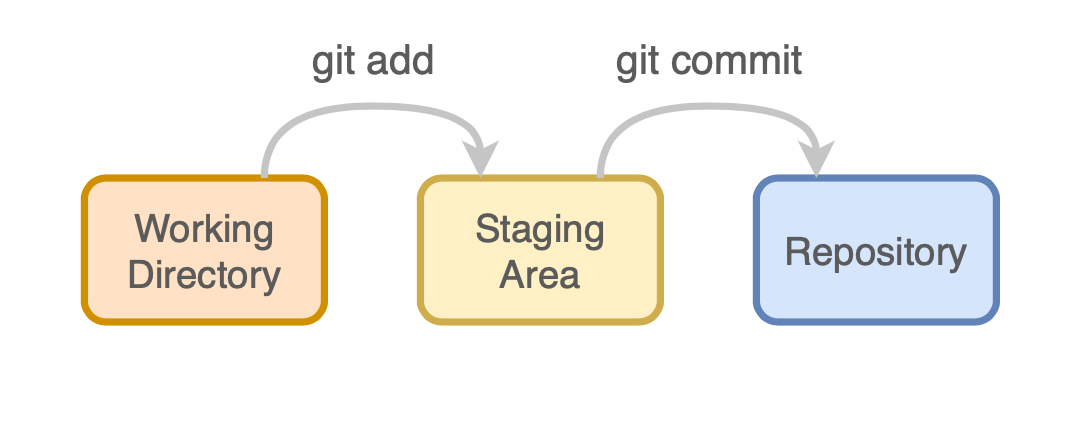
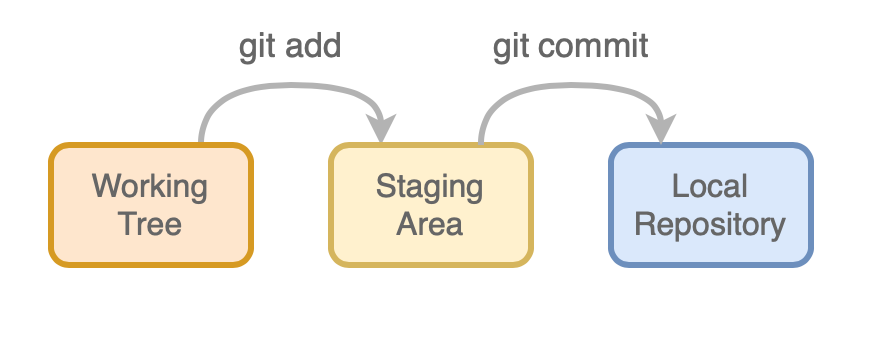
More sections in the instructions

diff --git a/scripts/make_plot.py b/scripts/make_plot.py
@@ -1,0 +1,65 @@
+from pathlib import Path
+
+import pandas as pd
+import plotly
+import plotly.express as px
+
+COLUMNS = ['date', 'country', 'confirmed']
+
+COLUMN_MAP = {
+    'Country/Region': 'country',
+    'Country_Region': 'country',
+    'Confirmed': 'confirmed',
+    'Deaths': 'deaths',
+    'Recovered': 'recovered',
+}
+
+COUNTRY_MAP = {
+    'Mainland China': 'China',
+    'US': 'United States',
+}
+
+DATA_DIR = Path('data')
+
+
+def load_and_normalize(file) -> pd.DataFrame:
+    df = pd \
+        .read_csv(file) \
+        .rename(columns=COLUMN_MAP) \
+        .replace({'country': COUNTRY_MAP}) \
+        .groupby('country', as_index=False) \
+        .sum() \
+        .assign(date=file.name.strip('*.csv')) \
+        .loc[:,COLUMNS]
+    
+    return df
+
+
+data = None
+
+for file in sorted(DATA_DIR.glob('*.csv')):
+    df = load_and_normalize(file)
+    if data is None:
+        data = df
+    else:
+        data = pd.concat([data, df])
+
+
+data.reset_index(drop=True, inplace=True)
+data['days_since_100'] = data[data['confirmed'] > 100].groupby('country').cumcount()
+
+
+top_n = data.groupby('country')['confirmed'].max().sort_values(ascending=False).head(25)
+y_max = max(data['confirmed']) * 1.1
+labels = {
+    'days_since_100': 'Days Since 100 Cases',
+    'confirmed': 'Confirmed Cases',
+    'country': 'Country/Region',
+}
+
+
+fig = px.line(x='days_since_100', y='confirmed', color='country', 
+              data_frame=data.loc[data['country'].isin(top_n.index)], 
+              log_y=True, range_y=[100, y_max], labels=labels)
+
+plotly.offline.plot(fig, filename='figures/covid-19-cases.html')

diff --git a/INSTRUCTIONS.md b/INSTRUCTIONS.md
@@ -1,6 +1,6 @@
-# Using Git for Analysis Projects
+# An Intro to Git
 
-We're going to create a plot of the Covid-19 cases around the world using publically available data compiled by [Johns Hopkins](https://github.com/CSSEGISandData). We'll write a script we can use to update the data, create a visualizations and then try contributing to someone else's code with a merge request.
+We're going to create a plot of the Covid-19 cases around the world using publicly available data compiled by [Johns Hopkins](https://github.com/CSSEGISandData). We'll write a script we can use to update the data, create a visualizations and then try contributing to someone else's code with a merge request.
 
 [![example-plot](images/example-plot.png)](https://www.ft.com/content/ff3affea-63c7-11ea-b3f3-fe4680ea68b5)
 
@@ -94,7 +94,7 @@ You'll see a folder on the left side, and not much else. Go back to your termina
 ```markdown
 # COVID-19 Confirmed Cases Visualization
 
-This project recreates the COVID-19 growth trajectory plots using publically available data
+This project recreates the COVID-19 growth trajectory plots using publicly available data
 compiled by [Johns Hopkins](https://github.com/CSSEGISandData).
 ```
 
@@ -203,12 +203,13 @@ python scripts/update_data.py --start 2020-01-22 --end 2020-04-25 data/
 
 
 
-Now create the requirements.txt file with the following contents:
+Now create the requirements.txt file with the following contents.
 
 ```
 # requirements.txt
 requests==2.23
 pandas==1.0
+
 ```
 
 
@@ -233,13 +234,11 @@ no changes added to commit (use "git add" and/or "git commit -a")
 
 
 
-This is more complicated than before. We have untracked files *requirements.txt* and *scripts/* and modified file *README.md*. Now is a good time to talk about the life cycle of git files. All files we create start out as "untracked" in our working directory. When we use `git add` we checkpoint the current contents of the file in the "staging area". Then when we are happy with the changes we've staged, we can create a permanent record of those changes by creating a commit.
+This is more complicated than before. We have untracked files *requirements.txt* and *scripts/* and modified file *README.md*. Now is a good time to talk about the life cycle of git files. All files we create start out as "untracked" in our working tree. When we use `git add` we checkpoint the current contents of the file in the "staging area". Then when we are happy with the changes we've staged, we can create a permanent record of those changes by creating a commit.
 
 <img alt="git-workflow-local" src="images/git-workflow-local.png" width=400px>
 
 In this commit, we have changes to the README file that git is tracking (because it was previously committed) and new files we have just created. Let's add them all to the staging area and commit them. We can tell git to add the files by listing them one by one like `git add requirements.txt scripts/update_data.py` or we can tell git to add all files in the current directory using the `.` shorthand.  Now run git commit like before.
-
-
 
 ```bash
 $ git add .
@@ -252,9 +251,9 @@ $ git commit -m "Add data update script and environment requirements"
 
 
 
-You can use `git log` to assure yourself the commit worked. You can also check `git status` and see that you have "nothing to commit" because the working directory is "clean".
+You can use `git log` to assure yourself the commit worked. You can also check `git status` and see that you have "nothing to commit" because the working tree is "clean".
 
-
+### 
 
 ### Get some data
 
@@ -284,6 +283,21 @@ $ pip install -r requirements.txt
 
 
 
+Once your python environment is active and you have the dependencies installed, create a diretory for the data and run the script to populate it.
+
+```bash
+$ # make directory for the data
+$ mkdir data
+$ python scripts/update_data.py data/
+INFO:scripts/update_data.py:Downloading data for 2020-01-22 - 2020-04-28 to /Users/willjenden/Projects/covid-19/data/original
+INFO:scripts/update_data.py:01-22-2020 -- downloading file: https://raw.githubusercontent.com/CSSEGISandData/COVID-19/master/csse_covid_19_data/csse_covid_19_daily_reports/01-22-2020.csv
+...
+INFO:scripts/update_data.py:04-25-2020 -- downloading file: https://raw.githubusercontent.com/CSSEGISandData/COVID-19/master/csse_covid_19_data/csse_covid_19_daily_reports/04-25-2020.csv
+INFO:scripts/update_data.py:04-25-2020 -- saved to /Users/willjenden/Projects/covid-19/data/original/04-25-2020.csv
+```
+
+
+
 Hopefully that all went smoothly. If the script failed, check that you created and specified the right data directory beforehand and that the URL for the CSV files hasn't changed. 
 
 We just created a bunch of new files in our repository. Check the status and you can see two new directories, *env* and *data*.
@@ -308,6 +322,7 @@ Unlike previous files, the *env* directory is specific to our local machine and 
 .vscode
 env/
 data/
+
 ```
 
 
@@ -334,29 +349,219 @@ $ git commit -m "Create gitignore"
 
 
 
-### Create a visualization!
+### Under the hood
+
+You may have noticed that every time we get the status or make commits, git tells us something about being on "branch master". This raises two questions: what's a branch, and what's master?
+
+Under the hood, a git repository is a graph of commits. So far our repository is just a linear network of commits where each new commit references the previous commit. We refer to this history of commits as a branch.
+
+Master is the name given, by convention, to the main or default branch. It represents a label or "tag" which points to one commit. Every time we make a new commit to the master branch what we're really doing is creating a commit with a parent of the current master branch and then reassigning the master label to this new commit. 
+
+This animation shows how each new commit points to the previous commit and the master label moves to the new commit. 
+
+<img alt="git-gif-commits" src="images/git-gif-commits.gif" width=600px>
+
+
+
+This animation also introduces the concept of the HEAD. The HEAD refers to the last commit in the current branch. When we checkout a new branch, our HEAD will move to the last commit on that branch.
+
+These animations were created with the excellent [Explaint Git](https://onlywei.github.io/explain-git-with-d3/#commit). If you want to dive deeper and understand how Git works under the hood, I strongly recommend exploring this site.
+
+Okay, back to creating our plot.
+
+
+
+### Create the plot!
+
+Now we have our data, we're ready to visualize the data and save a plot. We'll use [plotly express](https://plotly.com/python/plotly-express/) so we'll need to add `plotly==4.6` to the *requirements.txt* file. If you check the status of the repository you'll see a modified file. We can check what's been modified by running `git diff`.
+
+```bash
+$ git diff
+diff --git a/requirements.txt b/requirements.txt
+index 99510e7..aaab375 100644
+--- a/requirements.txt
++++ b/requirements.txt
+@@ -1,2 +1,3 @@
+ requests==2.23
+ pandas==1.0
++plotly==4.6
+```
+
+
+
+There's a lot of output here, but the critical pieces are the lines with that are prefixed with a + or – symbol. Commit the change with an appropriate message and then install the new dependency in your local environment.
+
+Let's add the [`make_plot.py`](scripts/make_plot.py) to out scripts directory. This script is hard-coded to perform the following steps:
+
+* reads each CSV in the *data* directory, 
+
+* normalizes the data by correcting for small changes over time (e.g. a column renamed from "Country/Region" to "Country_Region", some country references changing like "Mainland China" becoming just "China") and creates a single pandas dataframe
+
+* counts days since the 100th case and then 
+
+* plots the confirmed number of cases by country on a log scale against days since the 100th case
+
+* saves the plot to the *figures* directory
+
+  
+
+Now add a bit of a description to the README to explain how to create the visualization.
+
+```markdown
+### Visualization
+
+Once the data is downloaded, run the `make_plot.py` script to create an interactive 
+plot of the confirmed cases by country. 
+
+```bash
+mkdir figures
+python scripts/make_plot.py
+```
+
+```
+
+
+
+Try running the script per the README instructions. You should see something like this open in your browser.
+
+![covid-19-case-plot](images/covid-19-case-plot.png)
+
+Okay, let's check what this has done to our repository.
+
+```bash
+$ git status
+On branch master
+Changes not staged for commit:
+  (use "git add <file>..." to update what will be committed)
+  (use "git restore <file>..." to discard changes in working directory)
+        modified:   README.md
+
+Untracked files:
+  (use "git add <file>..." to include in what will be committed)
+        figures/
+        scripts/make_plot.py
+
+no changes added to commit (use "git add" and/or "git commit -a")
+```
+
+
+
+That looks about right. Let's clean up our working tree by staging the changes to the README, adding the script and adding `figures/` to the *.gitignore*.
+
+```bash
+# append "figures/" to the end of the .gitignore file
+$ echo "figures/" >> .gitignore
+$ git add README.md scripts/make_plot.py .gitignore
+$ git status
+On branch master
+Changes to be committed:
+  (use "git restore --staged <file>..." to unstage)
+        modified:   .gitignore
+        modified:   README.md
+        new file:   scripts/make_plot.py
+
+```
+
+
+
+Now that these changes are staged and ready to be committed. Our working tree is clean (we can verify by running `git diff` which will not indicate any changes). If we want to see the changes that are staged, we need to tell git to look at the staged files with `git diff --staged`. This will create a lot of of output. If you want to look at a single file, you can pass the filename as the last argument.
+
+```bash
+$ git diff --staged .gitignore
+diff --git a/.gitignore b/.gitignore
+index 48656a6..923db9e 100644
+--- a/.gitignore
++++ b/.gitignore
+@@ -1,3 +1,4 @@
+ .vscode/
+ env/
+ data/
++figures/
+```
+
+> Note: When there are more changes than can fit on the screen, you can scroll up and down using the ⬆ and ⬇ arrow keys or `j` and `k` (so you don't need to move your hands from the home row). Exit by pressing `q`.
+
+
+
+Commit your changes with an appropriate commit message and then let's push a copy of our entire repository up to GitHub.
+
+
+
+### Remote repository on GitHub
+
+So far we've been grouping our file changes into commits, and adding commits into our local repository. Now we're ready to start synchronizing our commits with a remote repository. 
+
+<img alt="git-workflow-remote" src="images/git-workflow-remote.png" width=500px>
+
+Login to your account on [GitHub](https://github.com/login). Look for the green "new" button and create a repository. Give it a reasonable name a short description. You can choose to make it private (only you can see it) or public. 
+
+![create-repository](images/create-repository.png)
+
+Once created, you'll see the main page which lists a number of options for how to get started with your repository. We're looking to "push an existing repository" because we have an existing local repository and we want to "push" the commits to the new GitHub remote repository we've just created. Before you copy and run the commands, let's take a look at what they do.
+
+The `git remote` command manages references to other repositories. We're going to create a reference to our git remote repository and give it the shorthand name `origin` by convention. This makes more sense when you think that you often get a copy of someone else's repository in which case "origin" refers to the place where your copy originated.
+
+> Note: There are two ways to authenticate with Git. The recommended method is by using an SSH key and a url that looks like `git@github.com:<username>/<repository>.git` but this requires a bit of initial set up. You can also use the url that looks like `https://github.com/<username>/<respository>.git`  and authenticate with your GitHub username and password when prompted. Git will know what to do depending on which url you give it.
+
+
+
+The `git push` command pushes the set of commits in your local repository to a remote repository. The `-u` flag is necessary for the first commit to a new branch and tells git that our local branch should be linked with the `master` branch on the remote repository.
+
+Now let's give it a shot.
+
+```bash
+$ git remote add origin https://github.com/jenden/covid-19.git
+$ git push -u origin master
+Enumerating objects: 27, done.
+Counting objects: 100% (27/27), done.
+Delta compression using up to 4 threads
+Compressing objects: 100% (19/19), done.
+Writing objects: 100% (27/27), 4.46 KiB | 1.11 MiB/s, done.
+Total 27 (delta 6), reused 0 (delta 0)
+remote: Resolving deltas: 100% (6/6), done.
+To https://github.com/jenden/covid-19.git
+ * [new branch]      master -> master
+Branch 'master' set up to track remote branch 'master' from 'origin'.
+```
+
+Congratulations! You've just pushed your first commits up to a GitHub repo. Let's go check it out what it looks like on the GitHub website.
+
+![github-repository](images/github-repository.png)
+
+You can see that all the commits we made on our local machine now show up here. Also, none of the files we excluded from the repository like *data* or *env* have been pushed to the remote repository.
+
+
+
+### Cloning a repository
 
 
 
 
 
-## Appendix
+### Branching
 
-### Repository Structure
+In the animation below, we create a new branch called *my-branch*. This creates a new label attached to the commit. However, we don't checkout the branch so when we make another commit we are commiting against master. This results in the master label and the HEAD moving to a new commit while the *my-branch* tag stays put. When we checkout *my-branch* our HEAD moves to the commit at that point. Each subsequent commit while *my-branch* is checked out results in the *my-branch* label and the HEAD reference moving while the *master* label stays put.
 
-We'll use the [Cookiecutter Data Science](http://drivendata.github.io/cookiecutter-data-science/) layout as a starting point. The repository structure is meant to encourage good that make your work analysis repeatable, easy to follow, don't modify the original data and keeps sensitive data out of version control. 
-
-
-* **README** - every repository should have a README. It provides new users (and sometimes, yourself in six months) an introduction to the project. It should explain the purpose of the project, how to set up the development environment and how to run links to other useful information, either in the repository or externally.
-* **data** directory - this repository contains local copies of data when necessary. It *should not* be kept in version control. This is achieved with a [`.gitignore`](https://help.github.com/en/github/using-git/ignoring-files) file.
-* **scripts**
-* **notebooks**
-* **reference**
+<img alt="git-gif-branches" src="images/git-gif-branches.gif" width=600px>
 
 
 
-### Terminology
+### Add a feature
 
-* **Commit** - the atomic unit of git. A repository is a graph of commits which track a set of changes from a previous commit.
 
-### 
+
+
+
+### Merge requests
+
+
+
+
+
+### We're done!
+
+That was a lot. You should know enough now to get by with using git for your work. It will take a while to become proficient but it's a very valuable, even a foundational, skill. Not to mention a GitHub repo with a few demo projects is always a plus when applying for a job.
+
+
+
+Check the README in this repository for additional resources and good luck!
